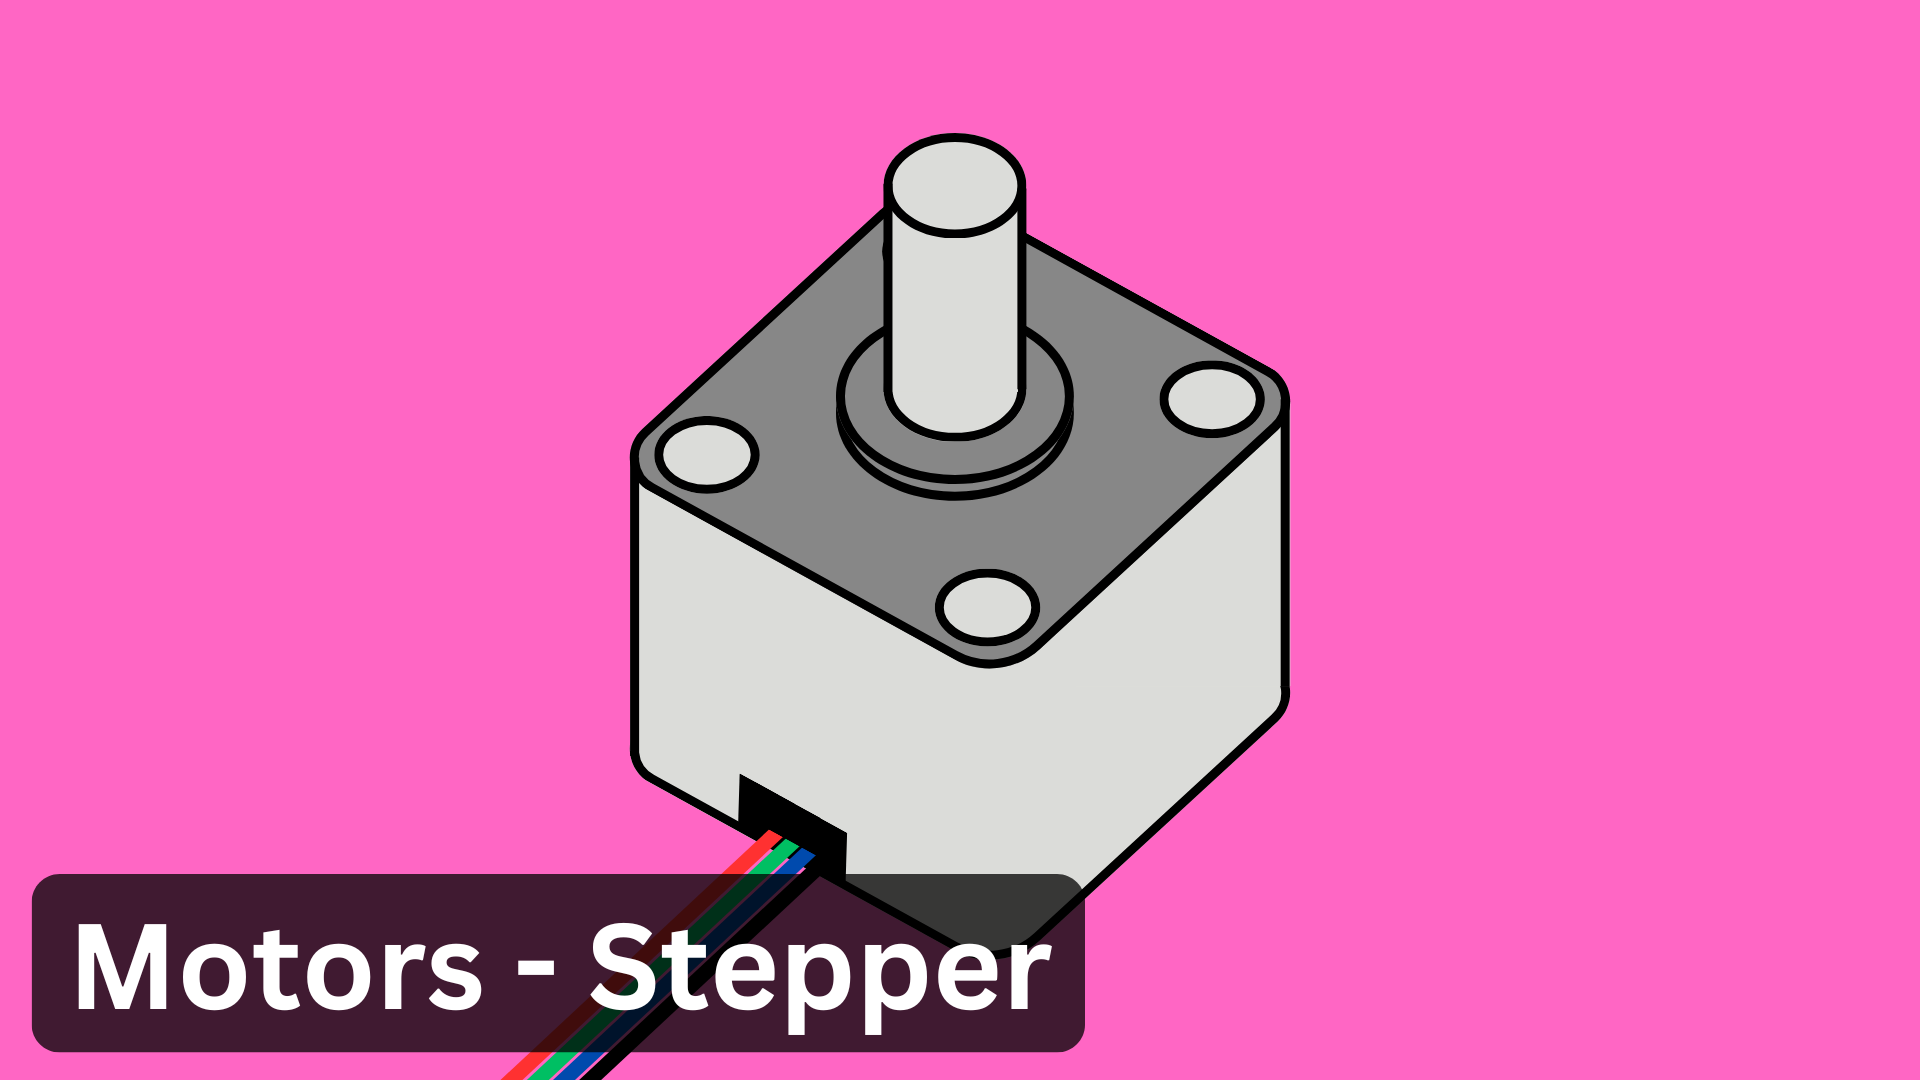
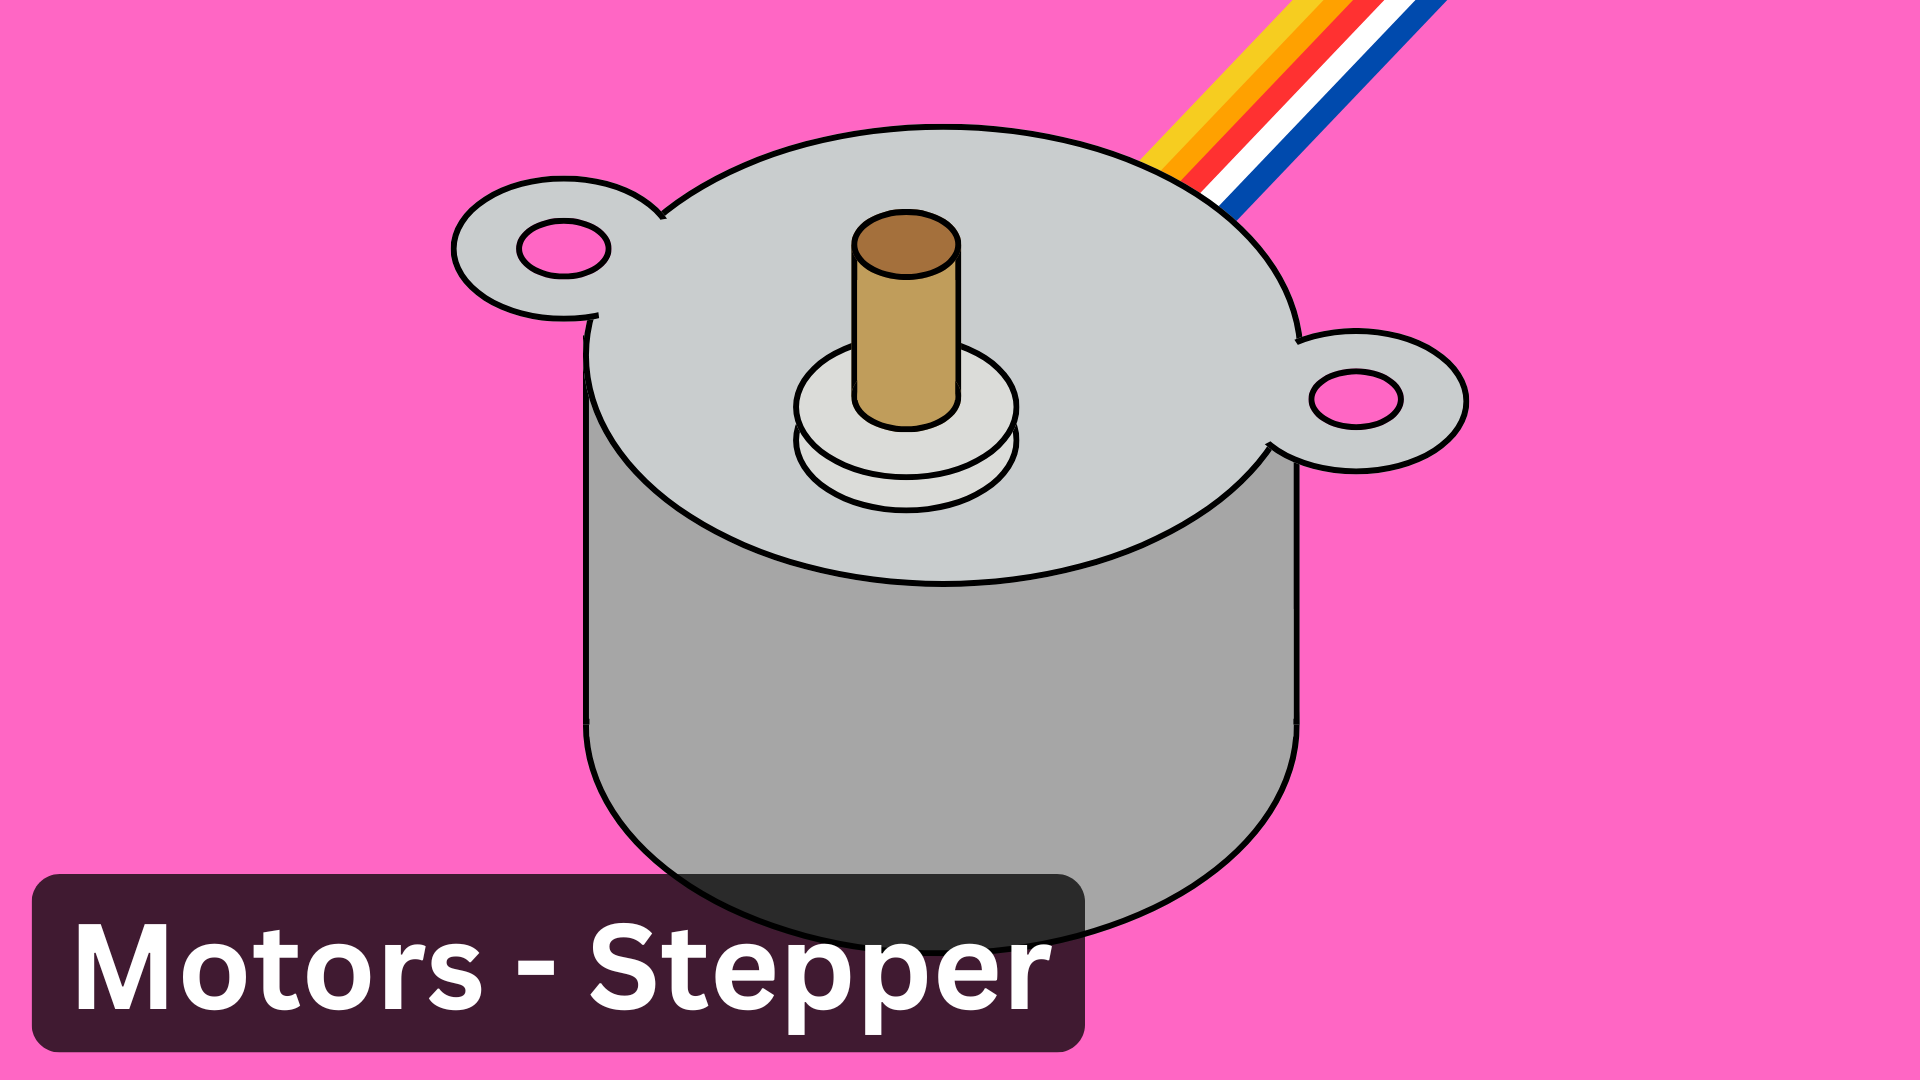
Update stepper section
Replace Sparkfun EasyDriver with 28BYJ-48 as default stepper

Changed region(s): [[0.2188, 0.0, 0.7812, 1.0], [0.4688, 0.8556, 0.5, 0.8861]]

diff --git a/examples/Output-Devices/Motor-Stepper/README.md b/examples/Output-Devices/Motor-Stepper/README.md
@@ -5,92 +5,67 @@
 ## Contents
 
 - [Introduction](#introduction)
-- [Sparkfun EasyDriver](#sparkfun-easydriver)
-    - [Wiring](#wiring)
-    - [Code](#code)
+- [Wiring](#wiring)
+- [Code](#code)
+
 
 ## Introduction
+
 Stepper motors are a type of brushless DC motor that are used for operations that require precise control of when/where the motor starts and stops.  
 
-Unlike a standard DC motor, stepper motors do not only rotate continuously in the forward or reverse direction. As the name implies, the stepper motor moves in steps. The motor can even stop at a specific step and hold its position. For these reasons, stepper motors are used more high precision applications, such as 3D printers and scanning equipment. 
+Unlike a standard DC motor, stepper motors do not only rotate continuously in the forward or reverse direction. As the name implies, the stepper motor moves in steps and can even stop at a specific step and hold its position. For these reasons, stepper motors are used more high precision applications, such as 3D printers and scanning equipment. 
 
 Stepper motors all require a driver that translates instructions from an Arduino (or other controller) into electrical pulses that control the motor.  ‘Hybrid’ stepper motors are the most commonly used type of stepper motor and require a separate stepper motor driver board to operate. Be aware however, not all drivers are compatible with all motors. Refer to the manufacturer's instructions before buying a driver board.
 
-## Sparkfun EasyDriver
-Stepper motor kits are available through [Bookit](https://bookit.eca.ed.ac.uk/av/wizard/resourcedetail.aspx?id=10689) that include a stepper motor, 12V power supply and a Sparkfun EasyDriver. For this example, we will look at how to set up this kit and control the stepper motor using an Arduino.
+We will be looking at how to use the 28BYJ-48 stepper motor (a miniature 5V motor) with the ULN2003 driver board.
 
-We will be following the instructions laid out in this [Sparkfun guide](https://learn.sparkfun.com/tutorials/easy-driver-hook-up-guide/all), so feel free to look at this guide for some more background information on the EasyDriver.
 
-If you are using a different motor and driver board, this wiring and code may not work for you and you may need to consult a separate guide for your specific driver.
+## Wiring
 
-### Wiring
-You should wire your Arduino, motor, and driver as shown below. 
+![](./images/Stepper_Wiring.png)
 
-**Important:** Do not connect or disconnect the stepper motor while the power supply is connected. This may damage or break the driver and/or motor.
 
-![](images/StepperMotor_SparkfunEasyDriver_Wiring.png)
+| Arduino | ULN2003 |
+| ------- | ------- |
+| GND     | -       |
+| 5V      | +       |
+| D2      | IN1     |
+| D4      | IN2     |
+| D3      | IN3     |
+| D5      | IN4     |
 
-The connections should be as follows:
 
-| Arduino	| Sparkfun EasyDriver	| Stepper Motor	| Power Supply |
-| --------- | --------------------- | ------------- | ------------ |
-| GND   	| GND (Next to STEP)    | -             | -            |
-| D2        | STEP	                | -	            | -            |
-| D3        | DIR	                | -	            | -            |
-| D4        | MS1	                | -	            | -            |
-| D5        | MS2	                | -	            | -            |
-| D6        | ENABLE	            | -	            | -            |
-| -         | A+	                | Green Wire	| -            |
-| -         | A-	                | Red Wire	    | -            |
-| -         | B+	                | Blue Wire	    | -            |
-| -         | B-                    | Yellow Wire	| -            |
-| -         | GND (PWR IN)	        | -	            | GND (Black)  |
-| -         | M+ (PWR IN)	        | -	            | PWR (Red)    |
+## Code
 
-### Code
-For a full example sketch, [click here](Stepper_SparkfunEasyDriver/Stepper_SparkfunEasyDriver.ino).
+For a full example sketch, [click here](./Stepper_Mini_Example/Stepper_Mini_Example.ino).
 
-To control the EasyDriver board, we need to send it specific signals from the Arduino board. Again, you can find out more specifics on the [Sparkfun website](https://learn.sparkfun.com/tutorials/easy-driver-hook-up-guide/all).
-
-In your code, you will first need to define the pin numbers of the pins connected to the driver.
+### Setup
 
 ``` cpp
-// Define pin locations
-int STEP = 2;
-int DIR = 3;
-int MS1 = 4;
-int MS2 = 5;
-int EN = 6;
+// Include Stepper library
+#include <Stepper.h> 
+
+// Define pin numbers
+#define PIN_IN1 2
+#define PIN_IN2 4
+#define PIN_IN3 3
+#define PIN_IN4 5
+
+// Define number of steps per full revolution
+#define STEPS_PER_REV = 2048;  
+
+// Create stepper object
+Stepper stepper(STEPS_PER_REV, PIN_IN1, PIN_IN2, PIN_IN3, PIN_IN4);
+
+void setup() {} // Don't need anything in setup()
 ```
 
-Then inside the <code>setup()</code> function, we need to declare these pins as outputs and set the pins to their default states before starting. This will ensure the starting conditions are consistent each time we upload the code and should prevent any unexpected behaviour.
+### Basic Functions
 
 ``` cpp
-pinMode(STEP, OUTPUT);
-pinMode(DIR, OUTPUT);
-pinMode(MS1, OUTPUT);
-pinMode(MS2, OUTPUT);
-pinMode(EN, OUTPUT);
-
-digitalWrite(STEP, LOW);
-digitalWrite(DIR, LOW);
-digitalWrite(MS1, LOW);
-digitalWrite(MS2, LOW);
-digitalWrite(EN, HIGH);
+void loop() {
+  stepper.setSpeed(5);          // set speed to 5RPM
+  stepper.step(STEPS_PER_REV);  // move positive number of steps = clockwise
+  delay(1000);
+}
 ```
-
-The DIR pin controls the direction in which the motor will turn. If the pin connected to DIR is set to LOW, then any subsequent steps will be turned in the “forward” direction. If it is set to HIGH, any subsequent steps will turn in the opposite direction. 
-
-To move the motor one step this, simply set the pin connected to STEP to HIGH briefly and then back to LOW  so it can be triggered again.
-
-``` cpp
-//Trigger one step forward
-digitalWrite(STEP, HIGH);  
-delay(1);
-  
-// Pull step pin low so it can be triggered again
-digitalWrite(STEP, LOW);  
-delay(1);
-```
-
-Doing this repeatedly will cause the motor to step forward over and over, as many times as you define.
